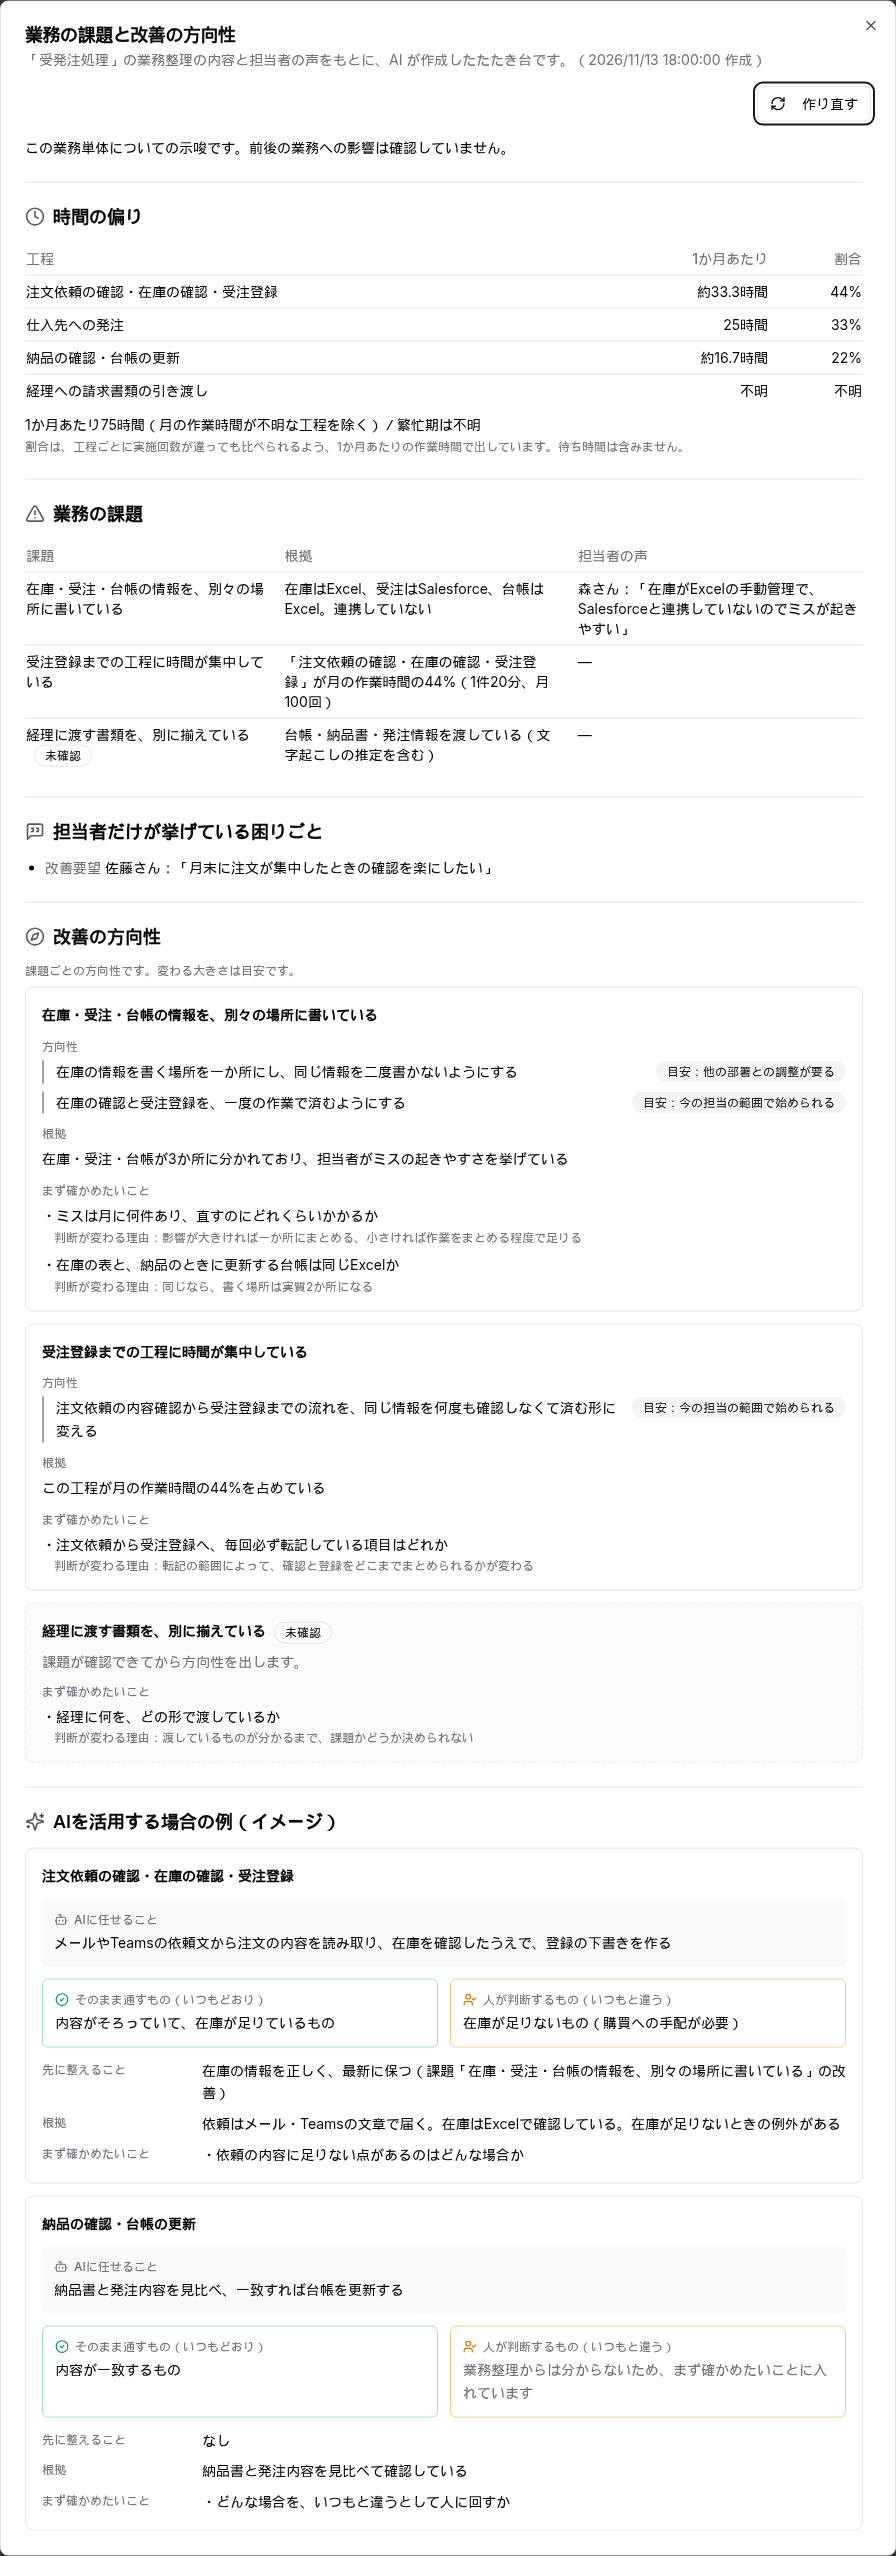
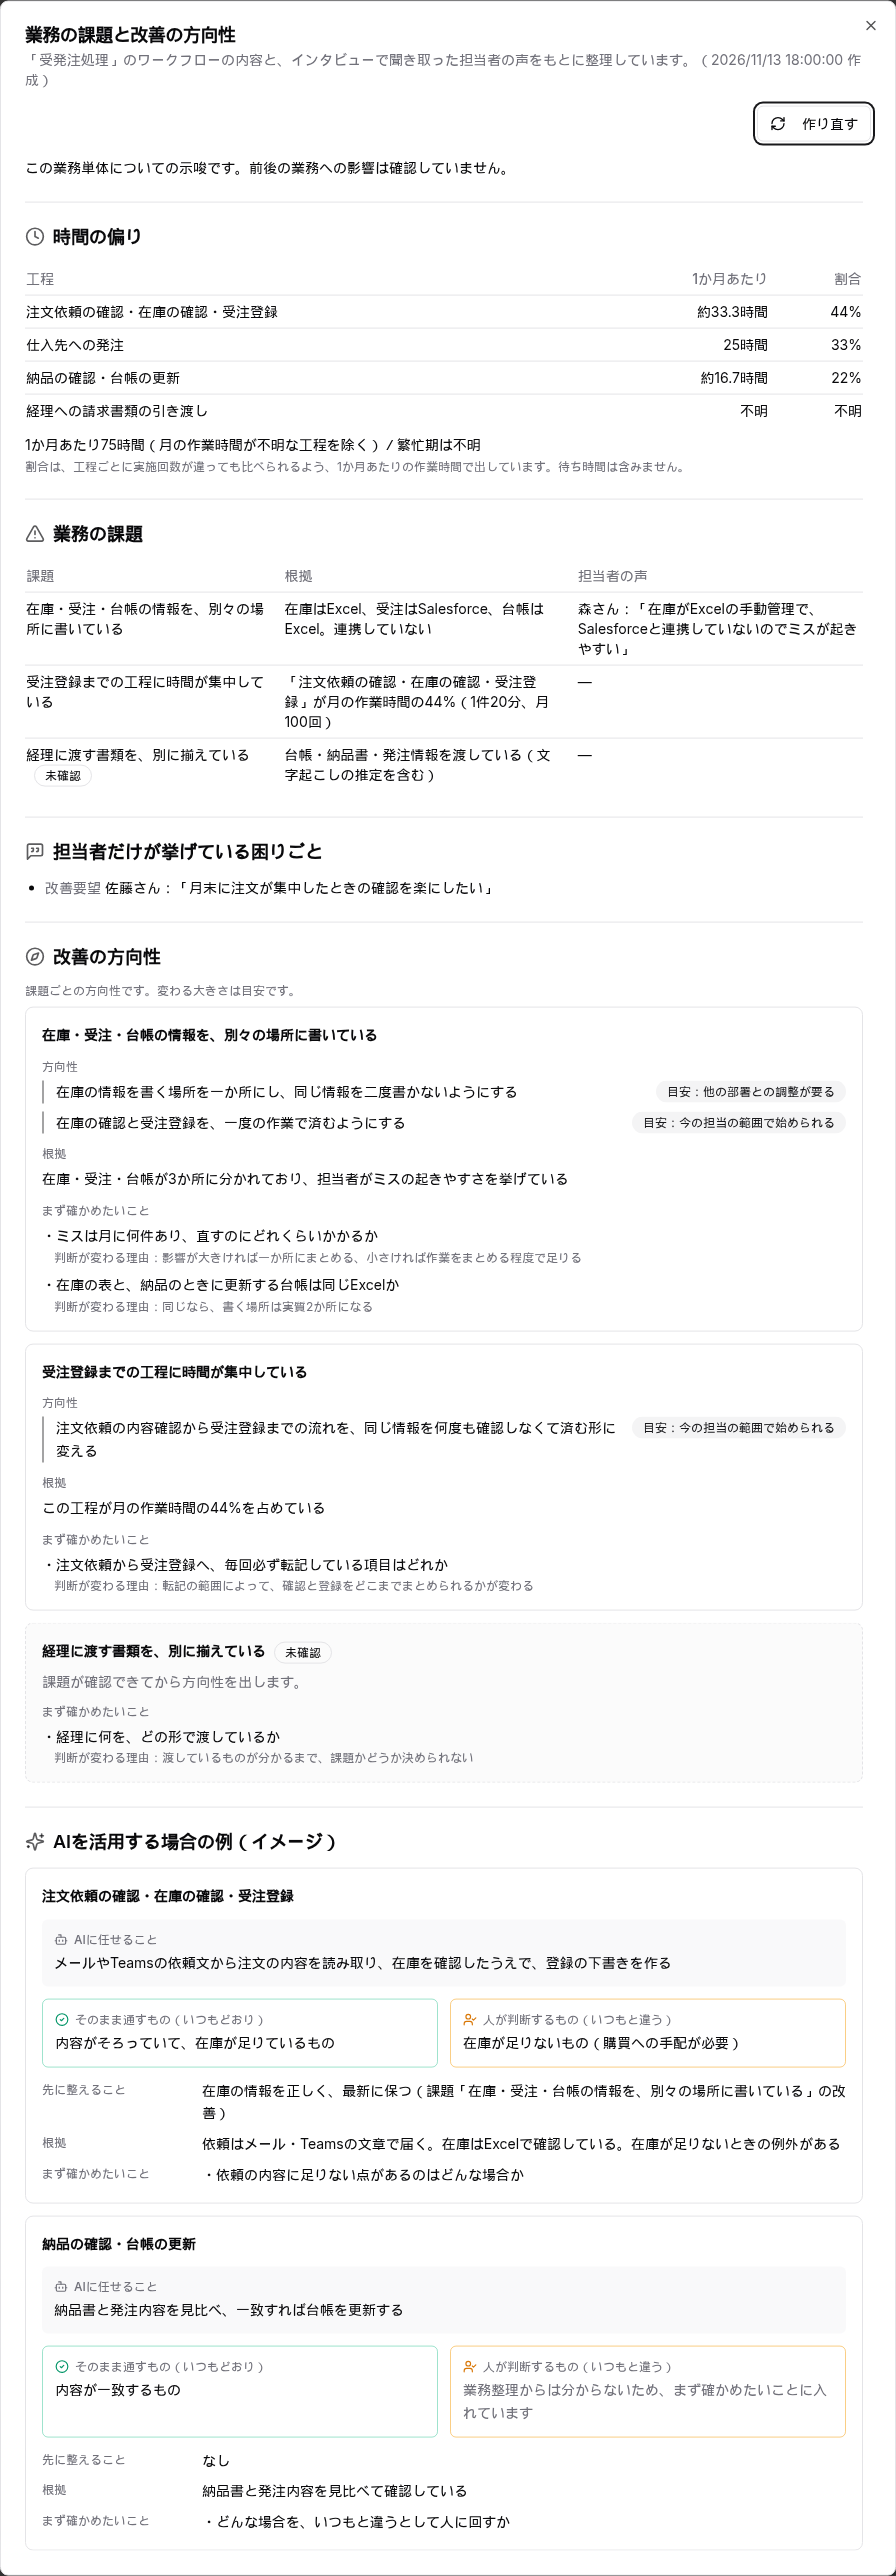
課題と改善の方向性の説明で、AI が作ったことではなく元にする事実と使い道を書く

diff --git a/src/content/docs/reference/release-notes.md b/src/content/docs/reference/release-notes.md
@@ -9,7 +9,7 @@ OroSee の更新内容を掲載します。
 
 #### 新機能・機能改善
 
-- ワークフロー詳細画面の「課題と改善の方向性」ボタンから、ワークフローの内容とインタビューで聞いた担当者の声をもとに AI が作成した「業務の課題」と「改善の方向性」のたたき台を確認できるようになりました。工程ごとの時間の偏り、担当者だけが挙げている困りごと、AI を活用する場合の例もあわせて表示します。詳しくは [③-3 ワークフローを確認・活用する](/guides/workflow-management/#業務の課題と改善の方向性を見るai) をご覧ください。
+- ワークフロー詳細画面の「課題と改善の方向性」ボタンから、業務の課題と改善の方向性を確認できるようになりました。ワークフローの内容とインタビューで聞き取った担当者の声をもとに、課題ごとに根拠となる事実と担当者の声、改善の方向性、まず確かめたいことを整理して表示します。工程ごとの時間の偏り、担当者だけが挙げている困りごと、AI を活用する場合の例もあわせて表示します。詳しくは [③-3 ワークフローを確認・活用する](/guides/workflow-management/#業務の課題と改善の方向性を見るai) をご覧ください。
 
 ### 2026-11-10
 
